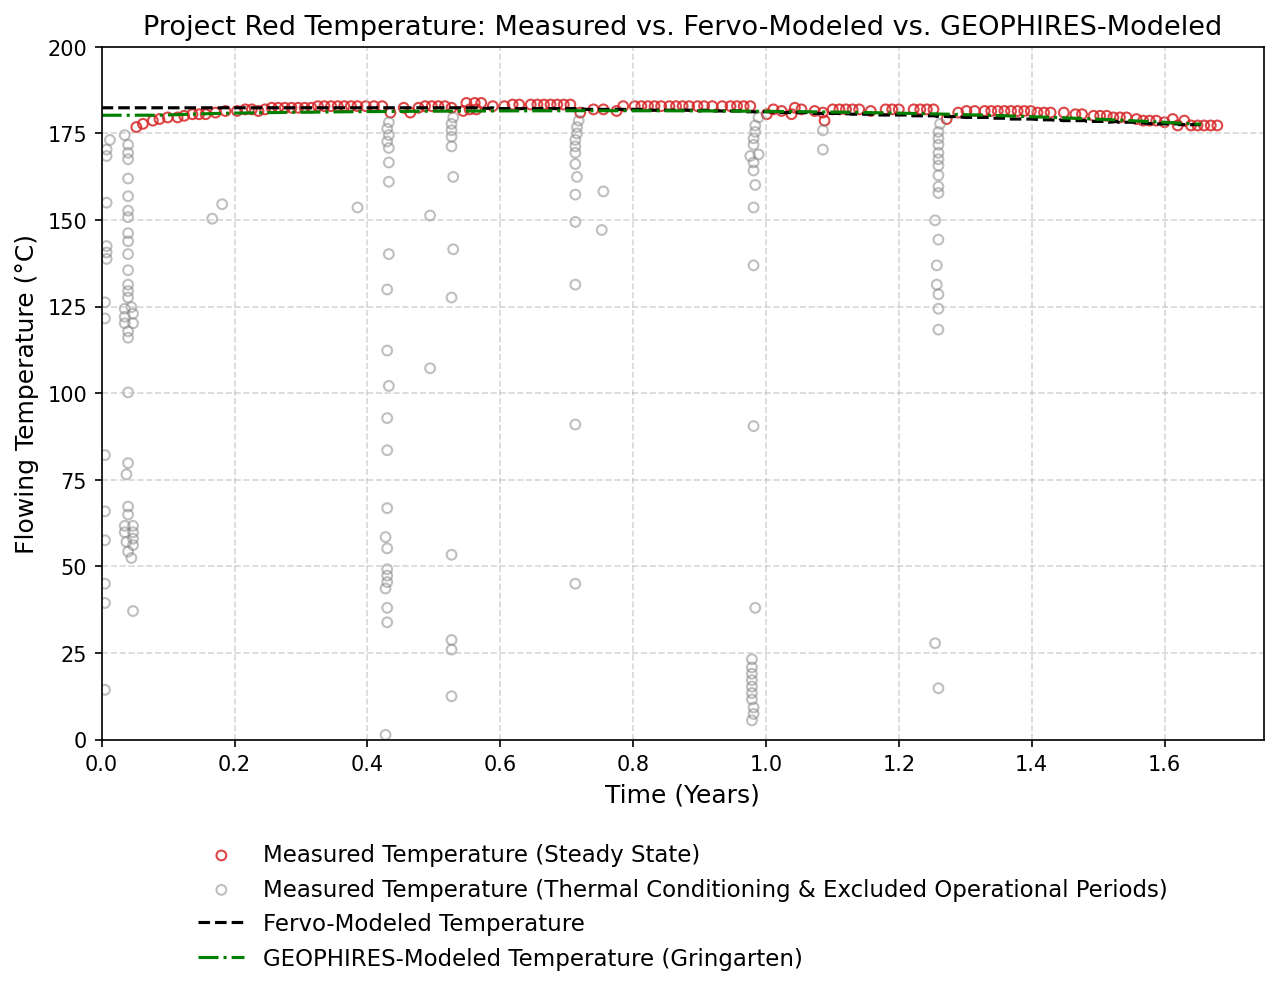
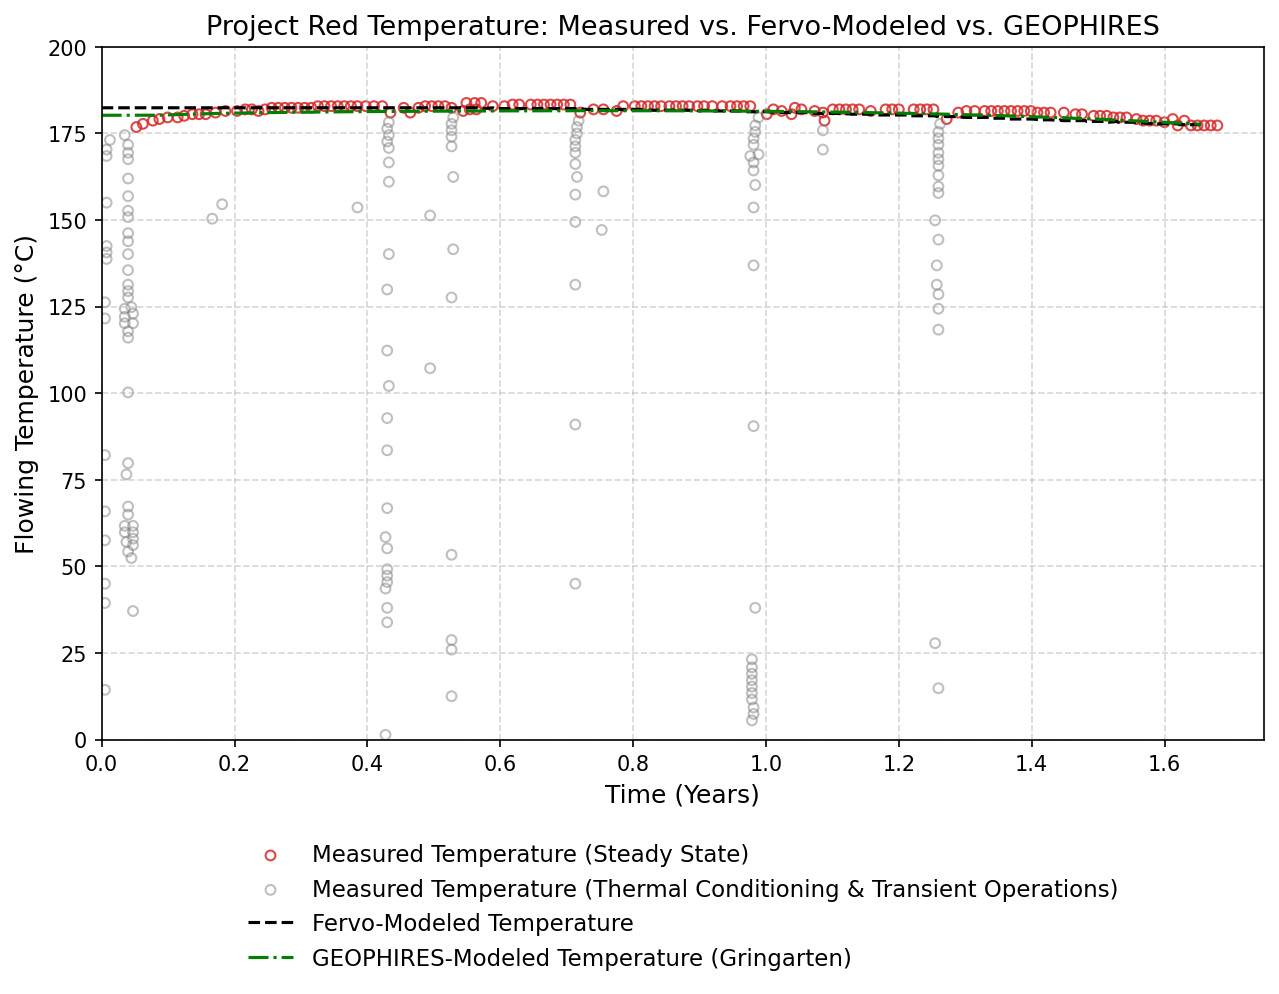
address TODO for better label -> Transient Operations

Changed region(s): [[0.183, 0.8421, 0.9148, 0.998], [0.122, 0.0, 0.9453, 0.0624]]

diff --git a/src/geophires_docs/generate_fervo_project_red_2026_docs.py b/src/geophires_docs/generate_fervo_project_red_2026_docs.py
@@ -284,9 +284,7 @@ def _generate_production_temperature_comparison_graph(
             alpha=0.5,
             label='Measured '
             # f'Flowing '
-            'Temperature (Thermal Conditioning '
-            '& Excluded Operational Periods'  # TODO better wording/phrasing
-            ')',
+            'Temperature (Thermal Conditioning ' '& Transient Operations' ')',
             # f', n={len(df_excluded)}',
         )
 
@@ -319,7 +317,7 @@ def _generate_production_temperature_comparison_graph(
 
     title = 'Fervo Project Red: Measured vs. Modeled Flowing Temperature (Regenerated)'
     if geophires_data is not None:
-        title = 'Project Red Temperature: Measured vs. Fervo-Modeled vs. GEOPHIRES-Modeled'
+        title = 'Project Red Temperature: Measured vs. Fervo-Modeled vs. GEOPHIRES'
     ax.set_title(title, fontsize=13)
 
     ax.set_xlim(0.0, 1.75)
